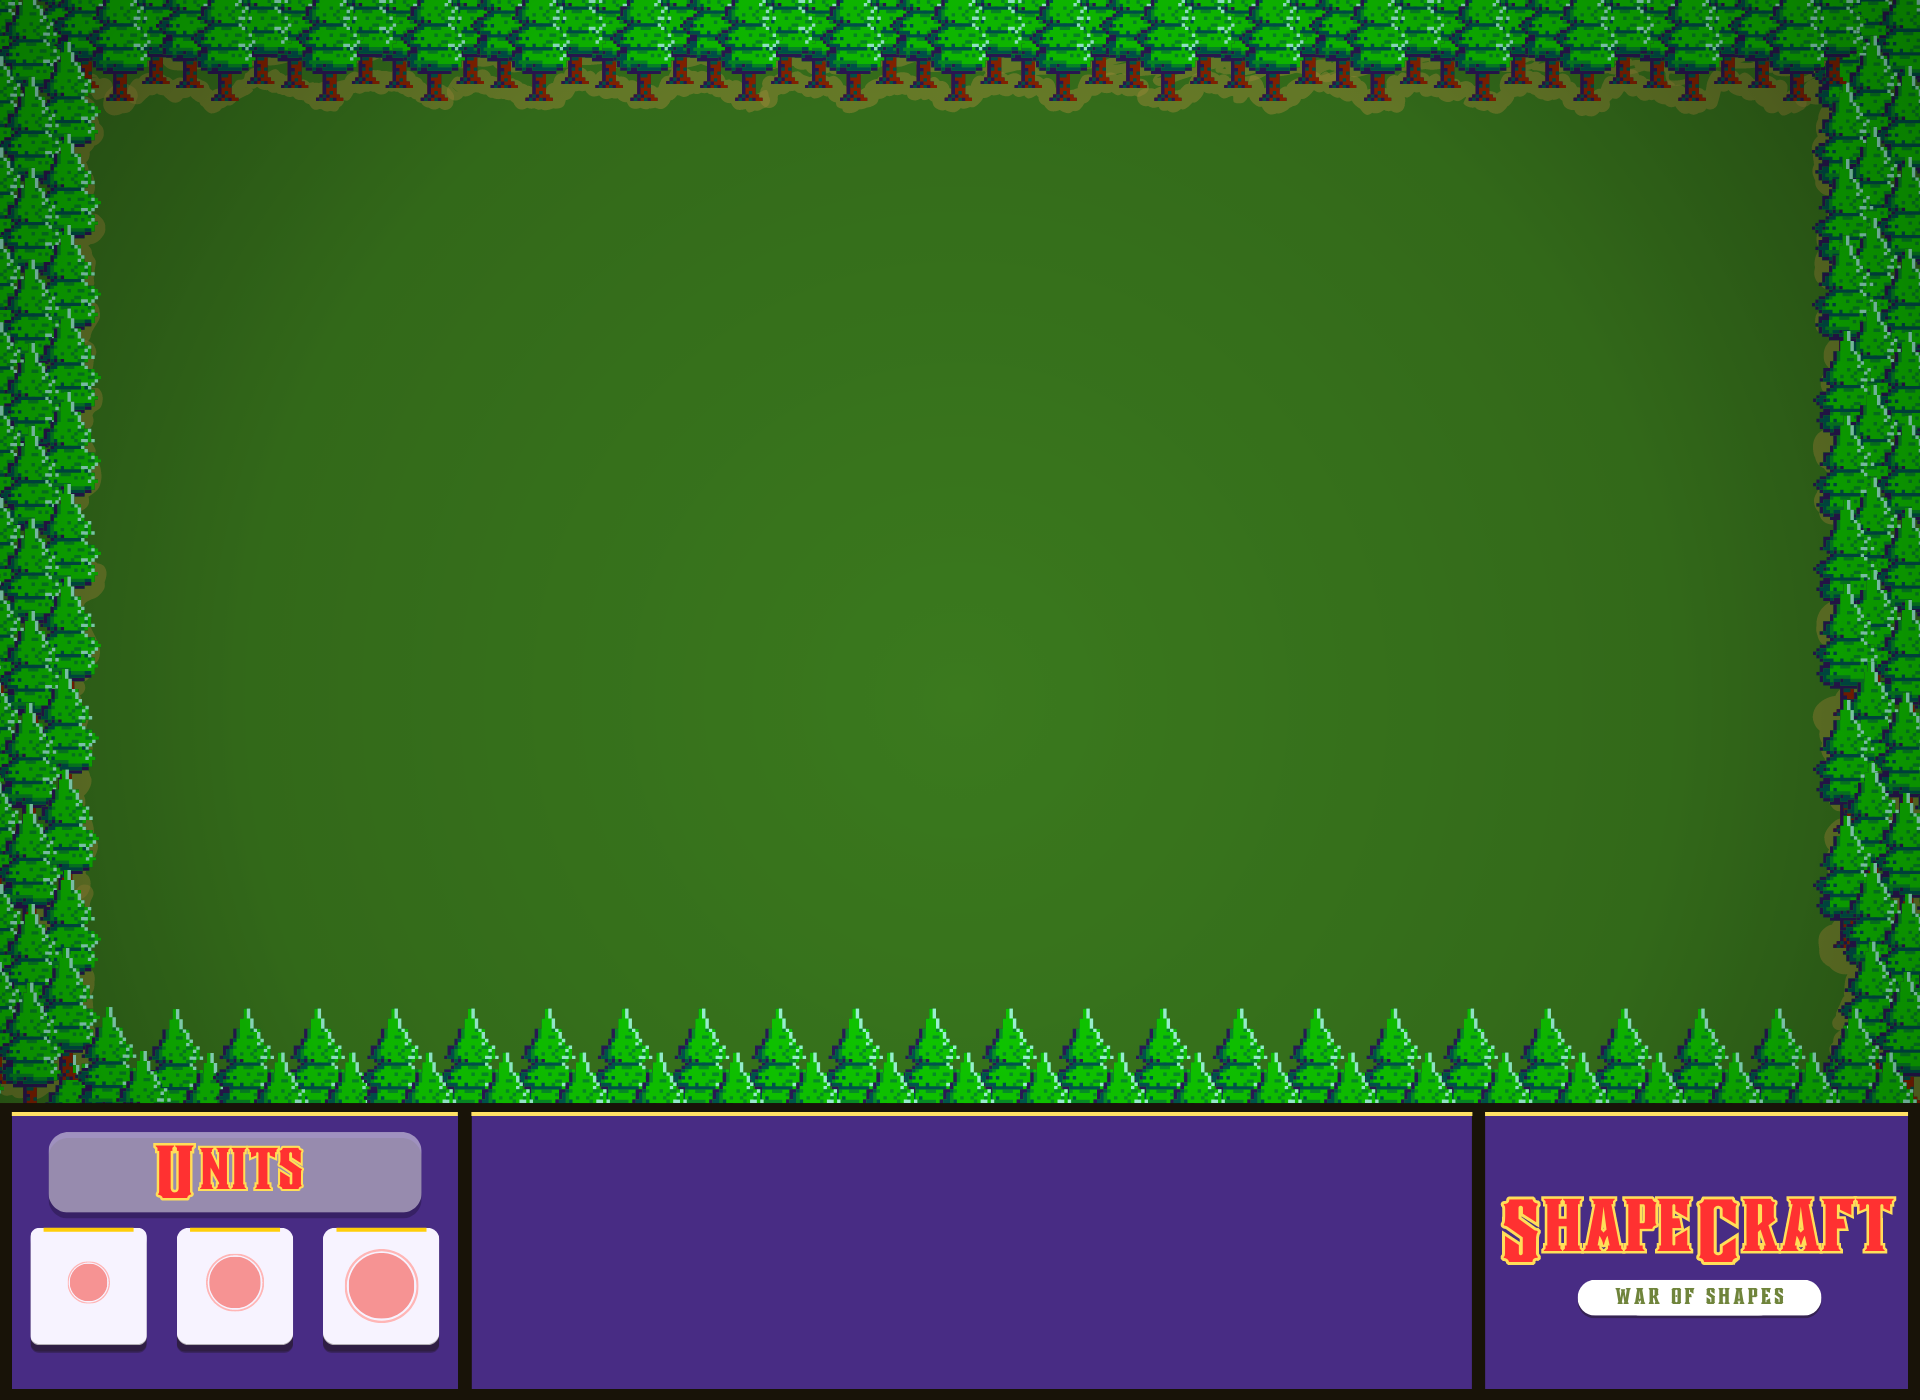
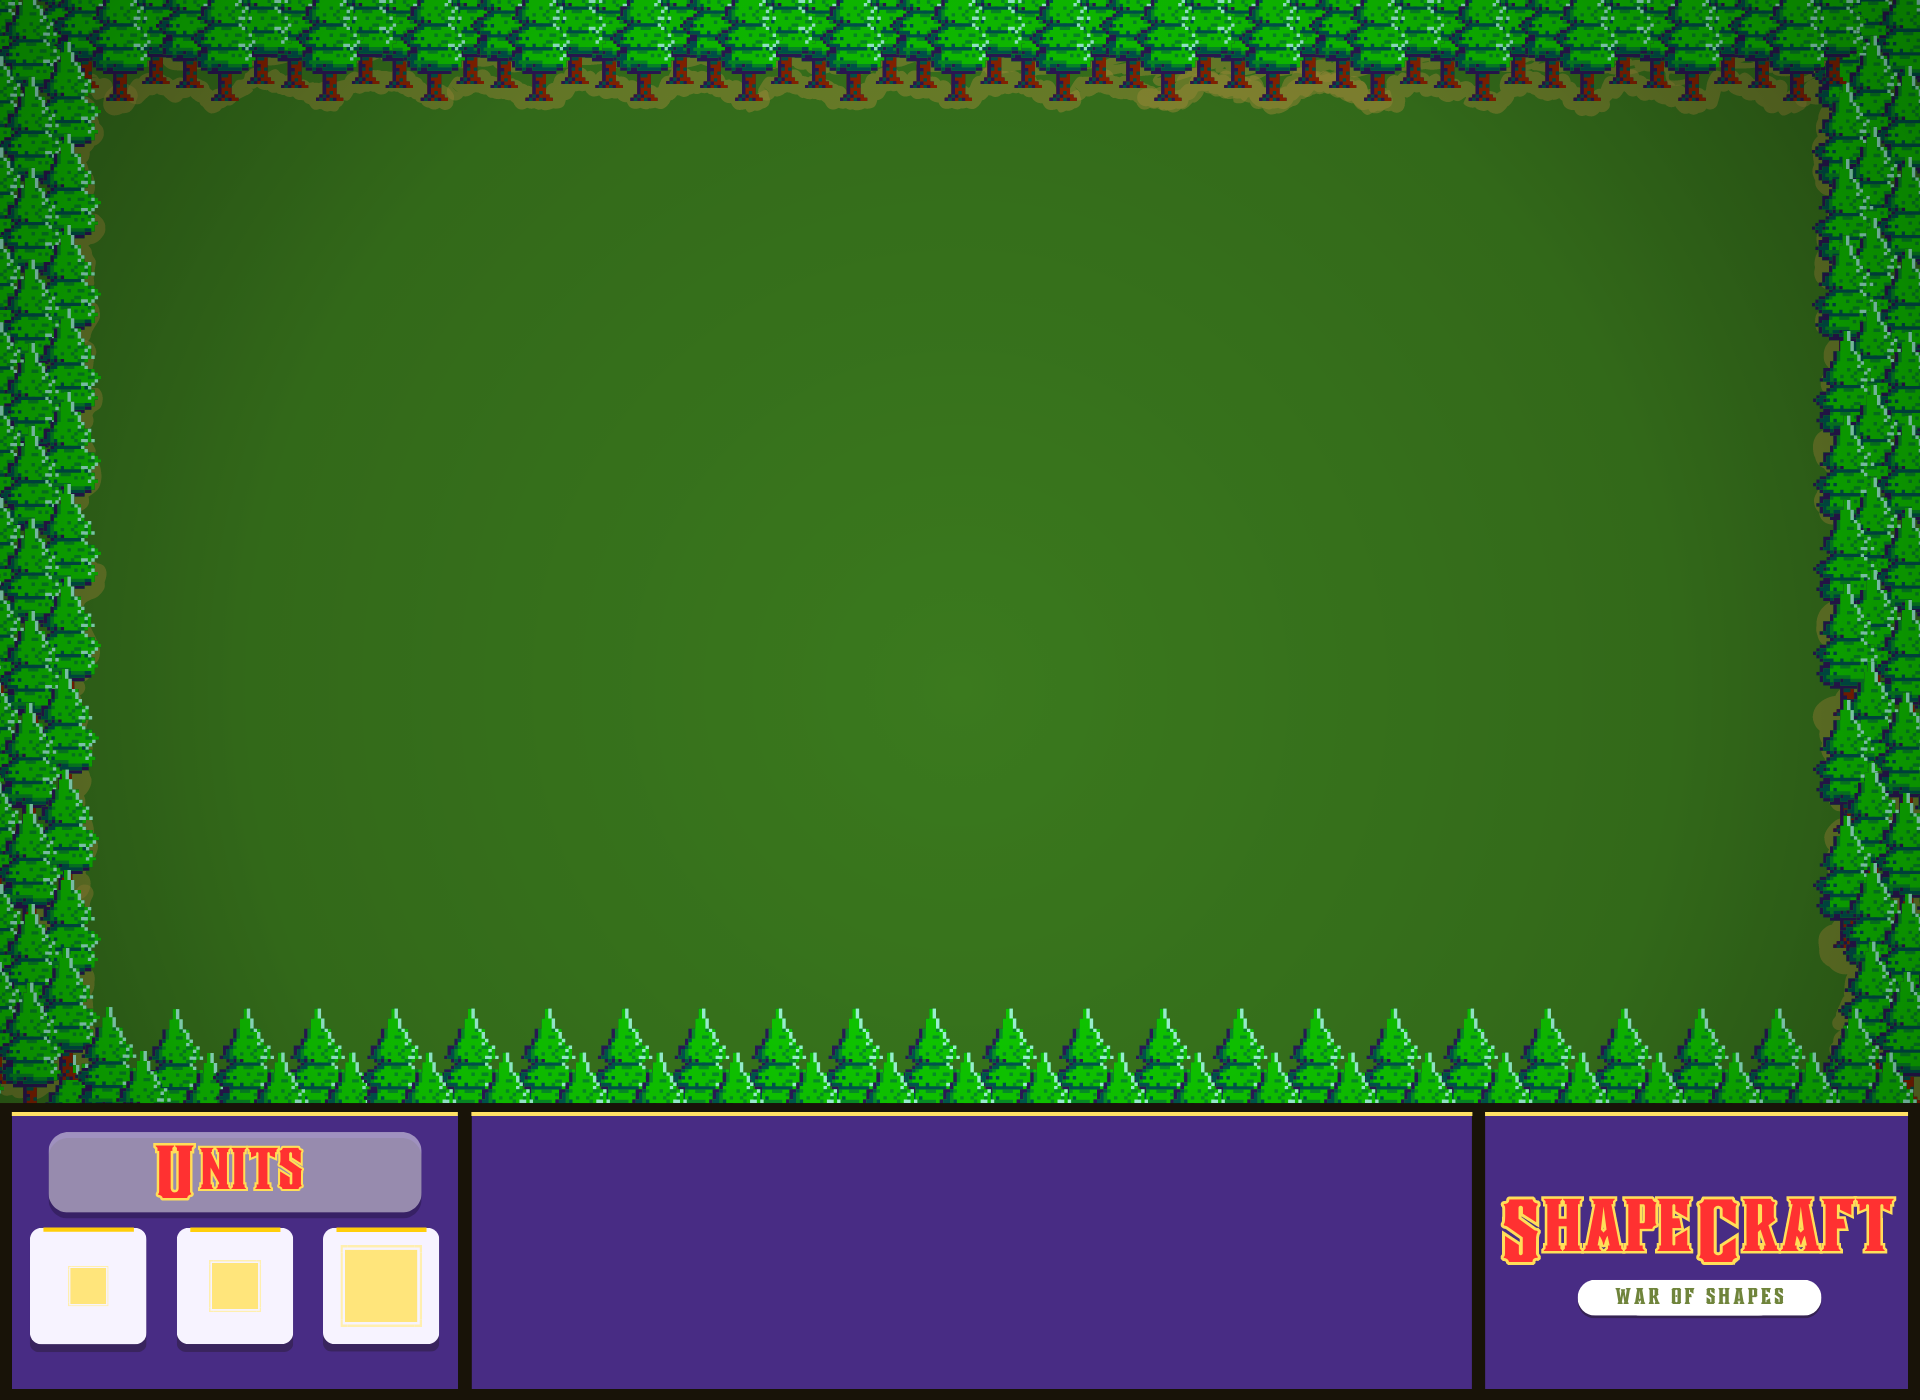
feat: spawn squares when buttons are pushed

Changed region(s): [[0.0938, 0.8907, 0.2188, 0.9829], [0.5938, 0.0307, 0.6875, 0.0921], [0.0312, 0.8907, 0.0625, 0.9829]]

diff --git a/src/Shapecraft/Shapes.java b/src/Shapecraft/Shapes.java
@@ -20,7 +20,7 @@ public class Shapes {
 	protected String direction;
 	protected Image image;
 
-    
+
     public Shapes(int x, int y, String size) {
         this.x = x;
         this.y = y;
@@ -44,11 +44,11 @@ public class Shapes {
         this.isMoving = false;
 
     }
-    
+
     public String getSize() {
     	return this.size;
     }
-    
+
     public int getX() {
         return x;
     }
@@ -64,11 +64,11 @@ public class Shapes {
     public void setY(int y) {
         this.y = y;
     }
-    
+
     public void setIsClicked(boolean bool) {
     	this.isClicked = bool;
     }
-    
+
     public boolean getIsClicked() {
     	return isClicked;
     }
@@ -88,21 +88,21 @@ public class Shapes {
     public void setHeight(int height) {
         this.height = height;
     }
-    
+
     public void setDistance(int distance) {
         this.distance = distance;
     }
-    
+
 
     public void draw(Graphics g) {
-//        
+//
     	if(this.getIsClicked() == true) {
     	  g.setColor(Color.WHITE);
 //          g.fillRect(x, y, width, height);
     	  g.drawRect(this.x -4, this.y - 4, this.width + 7, this.height + 7);
     	}
-        
-        
+
+
         // Draw the image
         g.drawImage(this.image, this.x, this.y, this.width, this.height, null);
     }
@@ -110,13 +110,13 @@ public class Shapes {
     public boolean isMouseInsideShape(int mouseX, int mouseY) {
         return (mouseX >= this.x && mouseX <= this.x + this.width && mouseY >= this.y && mouseY <= this.y + this.height);
     }
-    
+
     public void setNewPosition(int x, int y) {
     	this.newXpos = x;
     	this.newYpos = y;
-    	
+
     }
-    
+
     public boolean intersects(Shapes shape) {
         int thisLeft = this.x;
         int thisRight = this.x + this.width;
@@ -155,7 +155,7 @@ public class Shapes {
 //            this.x += this.dx;
 //            this.y += this.dy;
 //            this.distance -= this.speed;
-//           
+//
 //        } else {
 //            this.isMoving = false;
 //        }
@@ -167,12 +167,12 @@ public class Shapes {
                 this.dx += 1; // Reverse the horizontal direction
             if (this.x >= 1270)
             	this.dx -= 1;
-            
+
             if (this.y <= 70)
                 this.dy += 1; // Reverse the vertical direction
             if (this.y >= 680)
             	this.dy -= 1;
-            
+
             // Update the object's position
             this.x += this.dx;
             this.y += this.dy;
@@ -183,7 +183,7 @@ public class Shapes {
     }
 
 
-    
+
     public void getQuadrant(double newXPos, double newYPos) {
     	if(newXPos > this.x && newYPos < this.y) {
     		System.out.println("First Quadrant");
@@ -199,7 +199,7 @@ public class Shapes {
     		this.direction = "Fourth Quadrant" ;
     	}
     }
-    
+
     public String getDirection() {
     	return this.direction;
     }
@@ -211,5 +211,5 @@ public class Shapes {
     public void setIsMoving(boolean bool) {
         this.isMoving = bool;
     }
-    
+
 }

diff --git a/src/Shapecraft/GamePanel.java b/src/Shapecraft/GamePanel.java
@@ -412,30 +412,33 @@ public class GamePanel extends JPanel implements ActionListener, MouseListener, 
         button = buttons[0];
 		if (button.isMouseInsideSquare(mouseX, mouseY)) {
 	//  			button.setColor(Color.cyan);
-			int randy = rand.nextInt(900);
-			CircleFaction circle = new CircleFaction(150, 360, "small");
-			circles.add(circle);
-			circle.getVector(500, randy);
+			int randx = rand.nextInt(1360);
+			SquareFaction square = new SquareFaction(650, 600, "small");
+//			CircleFaction circle = new CircleFaction(150, 360, "small");
+			squares.add(square);
+			square.getVector(randx, 100);
 
 	     }
 
 		button = buttons[1];
 		if (button.isMouseInsideSquare(mouseX, mouseY)) {
 			//  			button.setColor(Color.cyan);
-			int randy = rand.nextInt(900);
-			CircleFaction circle = new CircleFaction(150, 360, "medium");
-			circles.add(circle);
-			circle.getVector(500, randy);
+			int randx = rand.nextInt(1360);
+			SquareFaction square = new SquareFaction(650, 600, "medium");
+//			CircleFaction circle = new CircleFaction(150, 360, "small");
+			squares.add(square);
+			square.getVector(randx, 100);
 
 	    }
 
 		button = buttons[2];
 		if (button.isMouseInsideSquare(mouseX, mouseY)) {
 			//  			button.setColor(Color.cyan);
-			int randy = rand.nextInt(900);
-			CircleFaction circle = new CircleFaction(150, 360, "large");
-			circles.add(circle);
-			circle.getVector(500, randy);
+			int randx = rand.nextInt(1360);
+			SquareFaction square = new SquareFaction(650, 600, "large");
+//			CircleFaction circle = new CircleFaction(150, 360, "small");
+			squares.add(square);
+			square.getVector(randx, 100);
 
 	     }
 
@@ -497,7 +500,7 @@ public class GamePanel extends JPanel implements ActionListener, MouseListener, 
         }
 
 		else if (e.getButton() == MouseEvent.BUTTON2) {
-			squares.add(new SquareFaction(e.getX(),  e.getY(), "small"));
+			circles.add(new CircleFaction(e.getX(),  e.getY(), "small"));
         }
 
         for (int i = 0; i < circles.size(); i++) {
